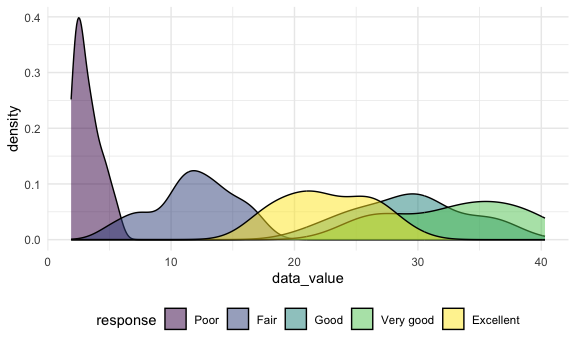
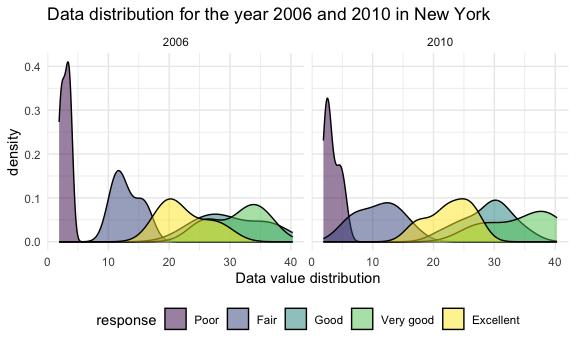
add plot title for the second question of problem2

diff --git a/p8105_hw3_tj2519.md b/p8105_hw3_tj2519.md
@@ -231,7 +231,10 @@ could be more clear.
 problem2_clean %>% 
   filter(location_abbr == "NY", year == 2006 | year == 2010) %>% 
   ggplot(aes(x = data_value, fill = response)) +
-  geom_density(alpha = .5)
+  geom_density(alpha = .5) + 
+  facet_grid(. ~ year) +
+  labs(title = "Data distribution for the year 2006 and 2010 in New York",
+       x= "Data value distribution")
 ```
 
 <img src="p8105_hw3_tj2519_files/figure-gfm/unnamed-chunk-10-1.png" width="90%" />
